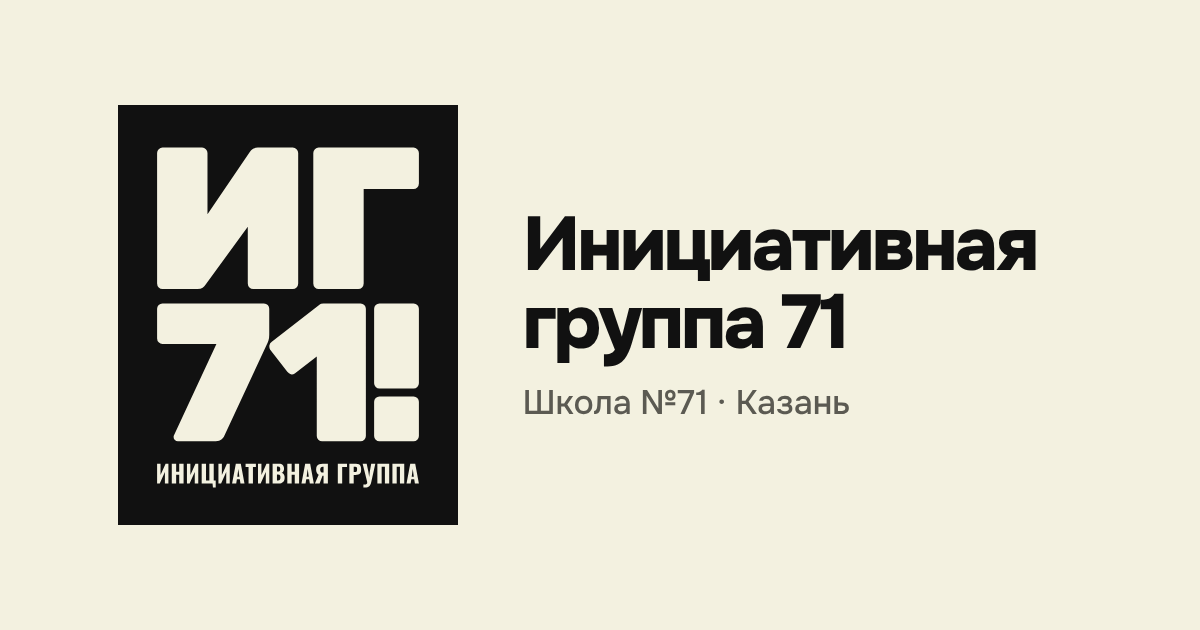
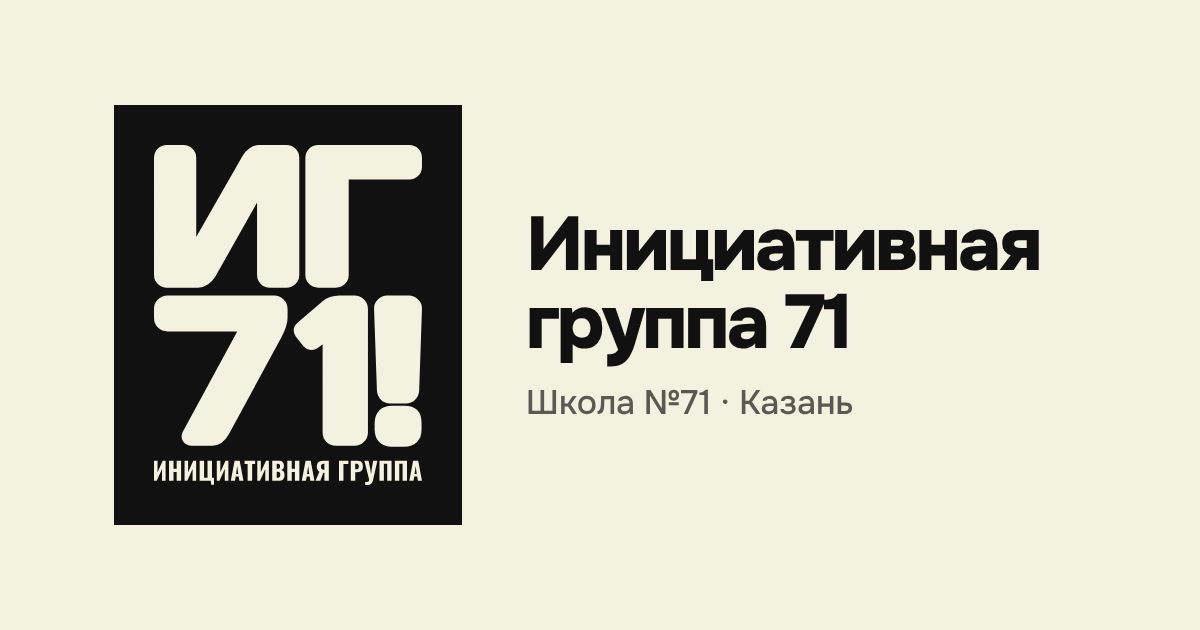
Логотип ИГ 71 ближе к референсу: мягкие «надутые» буквы
Days One с обводкой того же цвета и круглыми стыками: внешние углы
скруглены, буквы плотнее, зазоры между буквами и строками выверены,
чтобы ничего не слипалось. Обновлены значок вкладки, иконка «Домой»
и превью ссылок.

Claude-Session: https://claude.ai/code/session_017Q8Uxc2YzfSRKgFu1SN5za

diff --git a/src/components/Logo.tsx b/src/components/Logo.tsx
@@ -1,31 +1,32 @@
-// Логотип «Инициативная группа 71»: чёрный блок, крупные «ИГ / 71!» (Rubik Black)
-// и подпись «ИНИЦИАТИВНАЯ ГРУППА» (Oswald). Все буквы — векторные контуры,
-// поэтому знак выглядит одинаково на любом устройстве и не зависит от шрифтов.
-const MARK_VB = "0 0 400 457.7";
-const MARK = ['M46.65127020785219 216.4403387220939Q43.941493456505 216.4403387220939 41.9707467282525 214.4695919938414Q40.0 212.4988452655889 40.0 209.7890685142417V50.65127020785218Q40.0 47.941493456504986 41.9707467282525 45.97074672825249Q43.941493456505 44.0 46.65127020785219 44.0H94.9345650500385Q97.64434180138569 44.0 99.6150885296382 45.97074672825249Q101.5858352578907 47.941493456504986 101.5858352578907 50.65127020785218V125.2933025404157L153.0715935334873 49.66589684372593Q154.79599692070823 46.95612009237874 157.25943033102385 45.47806004618937Q159.7228637413395 44.0 163.17167051578136 44.0H205.7890685142417Q208.4988452655889 44.0 210.4695919938414 45.97074672825249Q212.4403387220939 47.941493456504986 212.4403387220939 50.65127020785218V209.7890685142417Q212.4403387220939 212.4988452655889 210.4695919938414 214.4695919938414Q208.4988452655889 216.4403387220939 205.7890685142417 216.4403387220939H157.50577367205543Q154.79599692070823 216.4403387220939 152.8252501924557 214.4695919938414Q150.85450346420322 212.4988452655889 150.85450346420322 209.7890685142417V140.5665896843726L99.36874518860662 210.77444187836798Q97.89068514241725 212.99153194765202 95.67359507313319 214.71593533487297Q93.45650500384912 216.4403387220939 89.26866820631255 216.4403387220939ZM237.5673595073133 216.4403387220939Q234.85758275596612 216.4403387220939 232.88683602771363 214.4695919938414Q230.91608929946113 212.4988452655889 230.91608929946113 209.7890685142417V50.65127020785218Q230.91608929946113 47.941493456504986 232.88683602771363 45.97074672825249Q234.85758275596612 44.0 237.5673595073133 44.0H353.3487297921478Q356.058506543495 44.0 358.0292532717475 45.97074672825249Q360.0 47.941493456504986 360.0 50.65127020785218V87.84911470361817Q360.0 90.55889145496535 358.0292532717475 92.52963818321786Q356.058506543495 94.50038491147035 353.3487297921478 94.50038491147035H292.5019245573518V209.7890685142417Q292.5019245573518 212.4988452655889 290.5311778290993 214.4695919938414Q288.5604311008468 216.4403387220939 285.8506543494996 216.4403387220939Z', 'M65.4463615903976 402.08234922471956Q63.285821455363845 402.08234922471956 61.72543135783946 400.52195912719515Q60.16504126031508 398.9615690296708 60.16504126031508 396.80102889463706Q60.16504126031508 395.60072881961827 60.645161290322584 394.6404887596033L112.49812453113279 283.25264179786285H46.48162040510128Q43.840960240060014 283.25264179786285 41.92048012003001 281.3321616778328Q40.0 279.4116815578028 40.0 276.77102139276155V240.52195912719517Q40.0 237.88129896215392 41.92048012003001 235.9608188421239Q43.840960240060014 234.0403387220939 46.48162040510128 234.0403387220939H170.5926481620405Q173.4733683420855 234.0403387220939 175.27381845461366 235.9608188421239Q177.0742685671418 237.88129896215392 177.0742685671418 240.52195912719517V272.2098811076903Q177.0742685671418 276.2909013627541 176.11402850712676 279.17162154279913Q175.15378844711176 282.0523417228441 173.953488372093 284.45294187288164L121.62040510127531 396.56096887963326Q120.90022505626408 397.76126895465205 118.61965491372844 399.9218090896858Q116.3390847711928 402.08234922471956 111.77794448612153 402.08234922471956ZM241.65041260315078 402.08234922471956Q239.00975243810953 402.08234922471956 237.0892723180795 400.1618691046896Q235.16879219804952 398.2413889846595 235.16879219804952 395.60072881961827V298.6164827581029L208.2820705176294 319.2616440484255Q205.8814703675919 320.9420641534517 203.4808702175544 320.34191411594236Q201.0802700675169 319.741764078433 199.15978994748687 317.3411639283955L178.03450862715678 289.9743222179679Q176.83420855213805 287.57372206793036 177.31432858214555 284.8130318953872Q177.79444861215305 282.0523417228441 180.19504876219054 280.6119816328216L238.04951237809453 235.72075882712016Q239.2498124531133 234.76051876710517 240.45011252813202 234.40042874459954Q241.65041260315078 234.0403387220939 243.33083270817704 234.0403387220939H288.70217554388597Q291.3428357089272 234.0403387220939 293.2633158289573 235.9608188421239Q295.18379594898727 237.88129896215392 295.18379594898727 240.52195912719517V395.60072881961827Q295.18379594898727 398.2413889846595 293.2633158289573 400.1618691046896Q291.3428357089272 402.08234922471956 288.70217554388597 402.08234922471956ZM311.74793698424605 337.7462652037143Q309.1072768192048 337.7462652037143 307.1867966991748 335.8257850836843Q305.26631657914476 333.9053049636543 305.26631657914476 331.26464479861306V240.52195912719517Q305.26631657914476 237.88129896215392 307.1867966991748 235.9608188421239Q309.1072768192048 234.0403387220939 311.74793698424605 234.0403387220939H353.5183795948987Q356.15903975993996 234.0403387220939 358.07951987997 235.9608188421239Q360.0 237.88129896215392 360.0 240.52195912719517V331.26464479861306Q360.0 333.9053049636543 358.07951987997 335.8257850836843Q356.15903975993996 337.7462652037143 353.5183795948987 337.7462652037143ZM311.74793698424605 402.08234922471956Q309.1072768192048 402.08234922471956 307.1867966991748 400.1618691046896Q305.26631657914476 398.2413889846595 305.26631657914476 395.60072881961827V353.8302862089656Q305.26631657914476 351.18962604392436 307.1867966991748 349.26914592389437Q309.1072768192048 347.3486658038644 311.74793698424605 347.3486658038644H353.5183795948987Q356.15903975993996 347.3486658038644 358.07951987997 349.26914592389437Q360.0 351.18962604392436 360.0 353.8302862089656V395.60072881961827Q360.0 398.2413889846595 358.07951987997 400.1618691046896Q356.15903975993996 402.08234922471956 353.5183795948987 402.08234922471956Z'];
-const FULL_VB = "0 0 400 492.8";
-const FULL = ['M52.40184757505774 215.9738260200154Q49.79368745188607 215.9738260200154 47.896843725943036 214.07698229407237Q46.0 212.18013856812934 46.0 209.57197844495767V56.40184757505773Q46.0 53.79368745188606 47.896843725943036 51.89684372594303Q49.79368745188607 50.0 52.40184757505774 50.0H98.87451886066205Q101.48267898383372 50.0 103.37952270977675 51.89684372594303Q105.27636643571978 53.79368745188606 105.27636643571978 56.40184757505773V128.2448036951501L154.83140877598152 55.453425712086215Q156.49114703618167 52.84526558891454 158.86220169361047 51.42263279445727Q161.23325635103924 50.0 164.55273287143956 50.0H205.57197844495767Q208.1801385681293 50.0 210.07698229407237 51.89684372594303Q211.9738260200154 53.79368745188606 211.9738260200154 56.40184757505773V209.57197844495767Q211.9738260200154 212.18013856812934 210.07698229407237 214.07698229407237Q208.1801385681293 215.9738260200154 205.57197844495767 215.9738260200154H159.09930715935334Q156.49114703618167 215.9738260200154 154.59430331023864 214.07698229407237Q152.69745958429561 212.18013856812934 152.69745958429561 209.57197844495767V142.94534257120864L103.14241724403388 210.52040030792918Q101.7197844495766 212.65434949961508 99.58583525789068 214.31408775981524Q97.45188606620476 215.9738260200154 93.42109314857584 215.9738260200154ZM236.15858352578906 215.9738260200154Q233.55042340261738 215.9738260200154 231.65357967667435 214.07698229407237Q229.75673595073133 212.18013856812934 229.75673595073133 209.57197844495767V56.40184757505773Q229.75673595073133 53.79368745188606 231.65357967667435 51.89684372594303Q233.55042340261738 50.0 236.15858352578906 50.0H347.5981524249422Q350.20631254811394 50.0 352.10315627405697 51.89684372594303Q354.0 53.79368745188606 354.0 56.40184757505773V92.20477290223249Q354.0 94.81293302540416 352.10315627405697 96.70977675134719Q350.20631254811394 98.60662047729022 347.5981524249422 98.60662047729022H289.0331023864511V209.57197844495767Q289.0331023864511 212.18013856812934 287.1362586605081 214.07698229407237Q285.23941493456505 215.9738260200154 282.6312548113934 215.9738260200154Z', 'M70.49212303075768 394.6542611287926Q68.4126031507877 394.6542611287926 66.91072768192049 393.15238565992536Q65.40885221305327 391.6505101910582 65.40885221305327 389.57099031108817Q65.40885221305327 388.41570148888263 65.87096774193549 387.49147043111816L115.7794448612153 280.280667730443H52.23855963990997Q49.696924231057764 280.280667730443 47.84846211552888 278.4322056149141Q46.0 276.58374349938526 46.0 274.042108090533V239.1523856599254Q46.0 236.61075025107317 47.84846211552888 234.76228813554428Q49.696924231057764 232.9138260200154 52.23855963990997 232.9138260200154H171.695423855964Q174.46811702925731 232.9138260200154 176.20105026256564 234.76228813554428Q177.93398349587397 236.61075025107317 177.93398349587397 239.1523856599254V269.65201056615194Q177.93398349587397 273.5799925616508 177.00975243810953 276.3526857349441Q176.08552138034509 279.12537890823745 174.93023255813955 281.4359565526486L124.5596399099775 389.33993254664705Q123.86646661665415 390.49522136885264 121.67141785446361 392.57474124882265Q119.47636909227307 394.6542611287926 115.08627156789197 394.6542611287926ZM240.08852213053262 394.6542611287926Q237.5468867216804 394.6542611287926 235.69842460615155 392.8057990132637Q233.84996249062266 390.9573368977348 233.84996249062266 388.41570148888263V295.06836465467404L207.9714928732183 314.93933239660953Q205.6609152288072 316.5567367476973 203.3503375843961 315.97909233659453Q201.039759939985 315.40144792549177 199.19129782445611 313.0908702810807L178.8582145536384 286.7502851347941Q177.70292573143286 284.439707490383 178.1650412603151 281.7825431993102Q178.6271567891973 279.12537890823745 180.9377344336084 277.7390323215908L236.62265566391596 234.53123037110316Q237.77794448612153 233.60699931333872 238.9332333083271 233.26041266667704Q240.08852213053262 232.9138260200154 241.7059264816204 232.9138260200154H285.3758439609902Q287.91747936984245 232.9138260200154 289.76594148537134 234.76228813554428Q291.61440360090023 236.61075025107317 291.61440360090023 239.1523856599254V388.41570148888263Q291.61440360090023 390.9573368977348 289.76594148537134 392.8057990132637Q287.91747936984245 394.6542611287926 285.3758439609902 394.6542611287926ZM307.5573893473368 332.730780258575Q305.01575393848464 332.730780258575 303.16729182295575 330.8823181430462Q301.31882970742686 329.0338560275173 301.31882970742686 326.49222061866504V239.1523856599254Q301.31882970742686 236.61075025107317 303.16729182295575 234.76228813554428Q305.01575393848464 232.9138260200154 307.5573893473368 232.9138260200154H347.76144036009003Q350.3030757689422 232.9138260200154 352.1515378844711 234.76228813554428Q354.0 236.61075025107317 354.0 239.1523856599254V326.49222061866504Q354.0 329.0338560275173 352.1515378844711 330.8823181430462Q350.3030757689422 332.730780258575 347.76144036009003 332.730780258575ZM307.5573893473368 394.6542611287926Q305.01575393848464 394.6542611287926 303.16729182295575 392.8057990132637Q301.31882970742686 390.9573368977348 301.31882970742686 388.41570148888263V348.2116504761294Q301.31882970742686 345.67001506727723 303.16729182295575 343.82155295174834Q305.01575393848464 341.97309083621946 307.5573893473368 341.97309083621946H347.76144036009003Q350.3030757689422 341.97309083621946 352.1515378844711 343.82155295174834Q354.0 345.67001506727723 354.0 348.2116504761294V388.41570148888263Q354.0 390.9573368977348 352.1515378844711 392.8057990132637Q350.3030757689422 394.6542611287926 347.76144036009003 394.6542611287926Z', 'M46.0 444.0741307142607V420.8342611287926H50.045458779692595V434.1469765456534L55.98453656264555 420.8342611287926H59.31271541686073V444.0741307142607H55.181183046110846V430.5318857212472L49.12734047508151 444.0741307142607ZM63.27210060549604 444.0741307142607V420.8342611287926H68.4078248719143V430.24497375105625H72.02291569632044V420.8342611287926H77.1586399627387V444.0741307142607H72.02291569632044V433.9174469695006H68.4078248719143V444.0741307142607ZM81.11802515137401 444.0741307142607V420.8342611287926H85.16348393106661V434.1469765456534L91.10256171401957 420.8342611287926H94.43074056823475V444.0741307142607H90.29920819748487V430.5318857212472L84.24536562645552 444.0741307142607ZM111.70284117373079 448.66472223731614 111.21509082440615 444.0741307142607H98.44750815090825V420.8342611287926H103.55454122030741V440.6024958749501H107.48523521192362V420.8342611287926H112.62095947834187V440.6024958749501H114.94494643688869V448.66472223731614ZM118.15836050302748 444.0741307142607V420.8342611287926H122.20381928272008V434.1469765456534L128.14289706567303 420.8342611287926H131.47107591988822V444.0741307142607H127.33954354913834V430.5318857212472L121.28570097810899 444.0741307142607ZM134.22543083372145 444.0741307142607 138.6151839776432 420.8342611287926H144.46818816953888L148.80055891942243 444.0741307142607H144.06651141127153L143.29184909175592 439.16793602399525H139.87759664648345L139.07424312994874 444.0741307142607ZM140.336655798789 436.0979779429519H142.80409874243128L141.57037727061015 427.03155968491745ZM153.59198882161152 444.0741307142607V424.65019033233244H150.09166278528178V420.8342611287926H162.22803912435955V424.65019033233244H158.7564042850489V444.0741307142607ZM164.69548206800187 444.0741307142607V420.8342611287926H168.74094084769447V434.1469765456534L174.68001863064742 420.8342611287926H178.0081974848626V444.0741307142607H173.8766651141127V430.5318857212472L167.8228225430834 444.0741307142607ZM181.88150908244063 444.0741307142607V420.8342611287926H187.93535165346995Q189.42729389846298 420.8342611287926 190.76143455985095 421.0637907049454Q192.09557522123893 421.29332028109815 193.1284583139264 421.9388722140278Q194.16134140661387 422.58442414695753 194.74951094550534 423.77510882325Q195.33768048439683 424.9657934995425 195.33768048439683 426.91679489684105Q195.33768048439683 428.3226635507768 194.92165812761993 429.2838186509165Q194.50563577084304 430.24497375105625 193.74531904983698 430.81879769143814Q192.98500232883092 431.3926216318201 191.92342803912436 431.5934600109538Q193.2719142990219 431.7656071930684 194.19003260363297 432.46854152003624Q195.10815090824406 433.1714758470041 195.58155565905915 434.34781492478703Q196.05496040987424 435.52415400257 196.05496040987424 437.1882434296776Q196.05496040987424 438.99578884188065 195.58155565905915 440.3012383062495Q195.10815090824406 441.6066877706184 194.21872380065207 442.4387324841722Q193.3292966930601 443.27077719772603 192.02384722869118 443.6724539559934Q190.7183977643223 444.0741307142607 189.02561714019564 444.0741307142607ZM187.01723334885887 440.4877310868737H188.10749883558455Q189.80027945971122 440.4877310868737 190.4458313926409 439.62699517630074Q191.09138332557058 438.76625926572785 191.09138332557058 437.1021698386203Q191.09138332557058 435.78237477574186 190.8044713553796 435.0077124562263Q190.51755938518863 434.23305013671063 189.85766185374942 433.8744101739719Q189.1977643223102 433.51577021123325 188.07880763856545 433.51577021123325H187.01723334885887ZM187.01723334885887 430.13020896297985H188.02142524452725Q189.1977643223102 430.13020896297985 189.80027945971125 429.77156900024113Q190.40279459711226 429.41292903750247 190.61797857475548 428.7243403090441Q190.8331625523987 428.03575158058584 190.8331625523987 427.06025088193655Q190.8331625523987 426.14213257732547 190.5032137866791 425.5252718414149Q190.1732650209595 424.90841110550434 189.52771308802983 424.5928079382943Q188.88216115510014 424.2772047710842 187.90666045645085 424.2772047710842H187.01723334885887ZM199.18230088495574 444.0741307142607V420.8342611287926H204.318025151374V430.24497375105625H207.93311597578014V420.8342611287926H213.0688402421984V444.0741307142607H207.93311597578014V433.9174469695006H204.318025151374V444.0741307142607ZM215.82319515603166 444.0741307142607 220.2129482999534 420.8342611287926H226.0659524918491L230.39832324173264 444.0741307142607H225.66427573358175L224.88961341406613 439.16793602399525H221.47536096879367L220.67200745225895 444.0741307142607ZM221.9344201210992 436.0979779429519H224.4018630647415L223.16814159292036 427.03155968491745ZM231.6607359105729 444.0741307142607 236.07918025151375 433.745299787386Q234.7593851886353 432.9419462708513 233.91299487657196 431.39262163182013Q233.06660456450862 429.8432969927889 233.06660456450862 427.77753080741394Q233.06660456450862 425.0805582876189 234.0134140661388 423.57427044411634Q234.96022356776896 422.0679826006138 236.72473218444338 421.45112186470317Q238.48924080111783 420.8342611287926 240.95668374476014 420.8342611287926H246.9244527247322V444.0741307142607H241.81741965533303V434.8929476681499H240.89930135072194Q240.87061015370284 434.8929476681499 240.75584536562644 434.8929476681499Q240.64108057755007 434.8929476681499 240.58369818351187 434.8929476681499L237.1981369352585 444.0741307142607ZM241.0714485328365 431.27785684374373H241.81741965533303V424.3632783621415H241.0140661387983Q239.43605030274801 424.3632783621415 238.64704238472285 425.2383598712239Q237.85803446669772 426.11344138030637 237.85803446669772 427.80622200443304Q237.85803446669772 429.29816424942607 238.54662319515603 430.2880105465849Q239.23521192361434 431.27785684374373 241.0714485328365 431.27785684374373ZM258.6017699115044 444.0741307142607V420.8342611287926H269.38965999068466V424.65019033233244H263.73749417792266V444.0741307142607ZM272.172706101537 444.0741307142607V420.8342611287926H279.97671169073124Q282.0711690731253 420.8342611287926 283.41965533302283 421.62326904681777Q284.76814159292036 422.41227696484293 285.42803912435954 423.9185648083455Q286.0879366557988 425.424852651848 286.0879366557988 427.5766924282803Q286.0879366557988 430.27366494807535 285.1985095482068 431.69387920052066Q284.3090824406148 433.1140934529659 282.7884489986027 433.65922619632875Q281.2678155565906 434.20435893969153 279.37419655333025 434.20435893969153H277.3084303679553V444.0741307142607ZM277.3084303679553 430.6179593123045H279.02990218910105Q279.97671169073124 430.6179593123045 280.4644620400559 430.27366494807535Q280.9522123893805 429.9293705838462 281.1100139729856 429.2407818553879Q281.2678155565906 428.5521931269296 281.2678155565906 427.490618837223Q281.2678155565906 426.601191729631 281.13870517000464 425.92694859968225Q281.0095947834187 425.2527054697335 280.5218444340941 424.85102871146614Q280.03409408476944 424.44935195319874 279.00121099208195 424.44935195319874H277.3084303679553ZM288.6988355845366 448.75079582837344V445.2217785950246Q289.10051234280394 445.25046979204365 289.4591523055426 445.26481539055317Q289.8177922682813 445.27916098906275 290.1333954354914 445.27916098906275Q290.8219841639497 445.27916098906275 291.3814625058221 445.1643962009864Q291.9409408476945 445.04963141291 292.34261760596183 444.8057562382477Q292.7442943642292 444.56188106358536 292.9594783418724 444.14585870680844Q293.1746623195156 443.7298363500316 293.1746623195156 443.12732121263053Q293.1746623195156 442.6969532573441 293.13162552398694 442.36700449162447Q293.0885887284583 442.03705572590485 293.0312063344201 441.7214525586948L287.8094084769446 420.8342611287926H292.5721471821146L294.58053097345135 430.38842973615175L295.52734047508153 436.61441948929564L296.2159292035398 430.35973853913265L297.90870982766654 420.8342611287926H302.7288309268747L297.96609222170474 442.20920290801945Q297.5644154634374 444.0454395172416 296.99059152305546 445.3221977845914Q296.4167675826735 446.59895605194123 295.58472286911973 447.3736183714568Q294.75267815556595 448.1482806909724 293.56199347927344 448.49257505520154Q292.37130880298093 448.83686941943074 290.6785281788542 448.83686941943074Q290.24816022356777 448.83686941943074 289.7604098742431 448.80817822241164Q289.2726595249185 448.77948702539254 288.6988355845366 448.75079582837344ZM305.1388914764788 444.0741307142607V420.8342611287926H319.0541220307406V444.0741307142607H314.0044713553796V424.50673434723694H310.1885421518398V444.0741307142607ZM322.84136003726127 444.0741307142607V420.8342611287926H336.75659059152304V444.0741307142607H331.70693991616207V424.50673434723694H327.89101071262223V444.0741307142607ZM339.42487191429905 444.0741307142607 343.81462505822077 420.8342611287926H349.6676292501164L354.0 444.0741307142607H349.2659524918491L348.4912901723335 439.16793602399525H345.077037727061L344.2736842105263 444.0741307142607ZM345.53609687936654 436.0979779429519H348.00353982300885L346.7698183511877 427.03155968491745Z'];
+// Логотип «Инициативная группа 71»: чёрный блок, крупные «ИГ / 71!» и подпись
+// «ИНИЦИАТИВНАЯ ГРУППА». Буквы — векторные контуры (Days One, «надуты» обводкой
+// с круглыми стыками) и Oswald для подписи. Не зависит от шрифтов на устройстве.
+const INF = 9;
+const MARK_H = 441.4;
+const MARK = ['M44.5 195.72417750573834V55.221117061973985Q44.5 50.594108645753636 47.54705432287682 47.54705432287682Q50.594108645753636 44.5 55.221117061973985 44.5H75.08339709257842Q79.48469778117827 44.5 82.58817903596022 47.54705432287682Q85.69166029074216 50.594108645753636 85.69166029074216 54.995409334353496V167.96212700841625L149.90550879877583 55.221117061973985Q152.50114766641164 50.81981637337415 157.01530221882174 47.659908186687076Q161.52945677123185 44.5 165.36648814078043 44.5H198.6583779648049Q203.05967865340475 44.5 206.10673297628156 47.659908186687076Q209.15378729915838 50.81981637337415 209.15378729915838 55.221117061973985V195.72417750573834Q209.15378729915838 200.1254781943382 205.99387911247132 203.22895944912014Q202.83397092578426 206.33244070390208 198.4326702371844 206.33244070390208H178.57039020657996Q174.16908951798013 206.33244070390208 171.06560826319816 203.22895944912014Q167.96212700841622 200.1254781943382 167.96212700841622 195.72417750573834V90.99579188982403L109.05241009946442 195.72417750573834Q106.45677123182861 200.1254781943382 101.716908951798 203.22895944912014Q96.9770466717674 206.33244070390208 92.57574598316756 206.33244070390208H55.221117061973985Q50.81981637337414 206.33244070390208 47.65990818668707 203.22895944912014Q44.5 200.1254781943382 44.5 195.72417750573834ZM225.15378729915838 195.94988523335886V55.221117061973985Q225.15378729915838 50.594108645753636 228.2008416220352 47.54705432287682Q231.24789594491202 44.5 235.87490436113237 44.5H344.89173680183626Q349.51874521805667 44.5 352.50937260902833 47.54705432287682Q355.5 50.594108645753636 355.5 55.221117061973985V65.82938026013773Q355.5 70.45638867635807 352.50937260902833 73.44701606732977Q349.51874521805667 76.43764345830147 344.89173680183626 76.43764345830147H267.69969395562356V195.94988523335886Q267.69969395562356 200.3511859219587 264.59621270084165 203.34181331293038Q261.4927314460597 206.33244070390208 257.0914307574598 206.33244070390208H235.87490436113237Q231.47360367253253 206.33244070390208 228.31369548584547 203.34181331293038Q225.15378729915838 200.3511859219587 225.15378729915838 195.94988523335886Z', 'M44.5 246.91277359029812V235.6823434774874Q44.5 231.0229097072787 47.96470716246289 227.6776752055904Q51.429414324925766 224.3324407039021 56.088848095134466 224.3324407039021H184.04406778471193Q188.70350155492062 224.3324407039021 192.1084723869962 227.6776752055904Q195.5134432190718 231.0229097072787 195.5134432190718 235.6823434774874V246.67382826874896Q195.5134432190718 254.91744186219512 188.22561091182232 268.4178525297229L125.50246400516669 384.42580614184214Q119.40935830566299 395.65623625465287 109.85154544369642 395.65623625465287H85.3596499849071Q80.58074355392381 395.65623625465287 78.6094446511432 392.49021074412644Q76.6381457483626 389.3241852336 78.54970832075591 385.620532749588L147.60490624846437 258.14320370310884H56.088848095134466Q51.1904690033766 258.14320370310884 47.845234501688296 254.85770553180782Q44.5 251.5722073605068 44.5 246.91277359029812ZM212.9471151483668 266.02839931423125Q211.5134432190718 263.9973640810633 211.5134432190718 261.24949288324797Q211.5134432190718 258.5016216854326 215.45604102463304 255.15638718374427L244.60737025363107 230.06712842108203Q250.93942127468392 224.45191336467667 262.16985138749465 224.3324407039021H279.7323325213582Q284.6307116131161 224.3324407039021 287.9759461148044 227.6776752055904Q291.3211806164927 231.0229097072787 291.3211806164927 235.6823434774874V384.42580614184214Q291.3211806164927 389.08523991205084 287.8564734540298 392.37073808335185Q284.3917662915669 395.65623625465287 279.7323325213582 395.65623625465287H257.51041761728595Q252.85098384707723 395.65623625465287 249.56548567577624 392.49021074412644Q246.27998750447523 389.3241852336 246.27998750447523 384.6647514633913V269.1346884943704L232.54063151539827 279.1703919994353Q230.15117829990663 280.84300925027947 227.0448891197675 280.2456459464065Q223.93859993962835 279.6482826425336 222.02703736723504 277.49777474859116ZM307.336849162168 235.6823434774874Q307.09790384061887 231.0229097072787 310.5028746726945 227.6776752055904Q313.90784550477 224.3324407039021 318.5672792749787 224.3324407039021H344.2539013415139Q348.9133351117226 224.3324407039021 352.3183059437982 227.6776752055904Q355.7232767758738 231.0229097072787 355.4843314543246 235.6823434774874L352.1390969526363 333.7693979734193Q351.90015163108717 338.42883174362805 348.67438979017345 341.5948572541545Q345.44862794925973 344.7608827646809 340.90866683982557 344.7608827646809H322.0319864374416Q317.3725526672329 344.7608827646809 314.2065271567065 341.5948572541545Q311.0405016461801 338.42883174362805 310.8015563246309 333.7693979734193ZM338.8776316066577 356.94709416368823Q355.0064408112263 356.94709416368823 355.0064408112263 373.1953760290314V380.7221536578301Q355.0064408112263 388.24893128662876 350.8846340145032 392.54994707451374Q346.7628272177801 396.8509628623987 338.8776316066577 396.8509628623987H324.1824943313841Q316.29729872026167 396.8509628623987 312.1754919235386 392.54994707451374Q308.0536851268155 388.24893128662876 308.0536851268155 380.7221536578301V373.1953760290314Q308.0536851268155 365.310180417909 312.23522825392587 361.1286372907986Q316.41677138103626 356.94709416368823 324.1824943313841 356.94709416368823Z'];
+const FULL_H = 483.4;
+const FULL_BIG = ['M50.5 195.5726855394032V60.785003825554725Q50.5 56.34621270084165 53.42310635042081 53.423106350420824Q56.34621270084162 50.5 60.785003825554696 50.5H79.83932670237184Q84.06159143075746 50.5 87.03882938026014 53.423106350420824Q90.01606732976282 56.34621270084165 90.01606732976282 60.568477429227244V168.93993879112472L151.6178270849273 60.785003825554725Q154.1078806426932 56.5627390971691 158.43840856924254 53.53136954858455Q162.76893649579188 50.5 166.44988523335883 50.5H198.3875286916603Q202.6097934200459 50.5 205.5328997704667 53.53136954858455Q208.4560061208875 56.5627390971691 208.4560061208875 60.785003825554725V195.5726855394032Q208.4560061208875 199.79495026778883 205.42463657230297 202.7721882172915Q202.39326702371844 205.7494261667942 198.1710022953328 205.7494261667942H179.11667941851567Q174.89441469013008 205.7494261667942 171.91717674062738 202.7721882172915Q168.93993879112472 199.79495026778883 168.93993879112472 195.5726855394032V95.10443764345831L112.4265493496557 195.5726855394032Q109.93649579188983 199.79495026778883 105.38944146901301 202.7721882172915Q100.84238714613619 205.7494261667942 96.62012241775057 205.7494261667942H60.785003825554696Q56.562739097169086 205.7494261667942 53.53136954858454 202.7721882172915Q50.5 199.79495026778883 50.5 195.5726855394032ZM224.45600612088754 195.7892119357307V60.785003825554725Q224.45600612088754 56.34621270084165 227.37911247130836 53.423106350420824Q230.30221882172916 50.5 234.74100994644223 50.5H339.3232593726091Q343.7620504973221 50.5 346.63102524866105 53.423106350420824Q349.5 56.34621270084165 349.5 60.785003825554725V70.96174445294568Q349.5 75.40053557765876 346.63102524866105 78.26951032899771Q343.7620504973221 81.13848508033666 339.3232593726091 81.13848508033666H265.27123182861516V195.7892119357307Q265.27123182861516 200.01147666411632 262.29399387911246 202.88045141545524Q259.3167559296098 205.7494261667942 255.09449120122417 205.7494261667942H234.74100994644223Q230.5187452180566 205.7494261667942 227.48737566947207 202.88045141545524Q224.45600612088754 200.01147666411632 224.45600612088754 195.7892119357307Z', 'M50.5 245.35856193979683V234.61116107915Q50.5 230.15213306249868 53.81568749956125 226.95077961464642Q57.1313749991225 223.7494261667942 61.590403015773845 223.7494261667942H184.04217239612217Q188.50120041277353 223.7494261667942 191.75972088648027 226.95077961464642Q195.018241360187 230.15213306249868 195.018241360187 234.61116107915V245.1298938363788Q195.018241360187 253.01894340430042 188.0438642059375 265.9386912474184L128.0184870587079 376.9570554568659Q122.18745042154846 387.70445631751267 113.04072628482776 387.70445631751267H89.60224568448098Q85.02888361612062 387.70445631751267 83.14237176292198 384.67460394722394Q81.25585990972334 381.6447515769352 83.08520473706747 378.1003959739559L149.1702866248745 256.10596280044365H61.590403015773845Q56.90270689570448 256.10596280044365 53.70135344785224 252.9617763784459Q50.5 249.81758995644816 50.5 245.35856193979683ZM212.3902499806951 263.6520102132382Q211.018241360187 261.70833133418506 211.018241360187 259.0786481448779Q211.018241360187 256.44896495557066 214.7912650665843 253.24761150771843L242.6887736835824 229.2374606488266Q248.74847842415988 223.8637602185032 259.4958792848067 223.7494261667942H276.30298488603097Q280.9906810061003 223.7494261667942 284.1920344539526 226.95077961464642Q287.39338790180483 230.15213306249868 287.39338790180483 234.61116107915V376.9570554568659Q287.39338790180483 381.4160834735172 284.0777004022436 384.5602698955149Q280.76201290268233 387.70445631751267 276.30298488603097 387.70445631751267H255.03685126815537Q250.57782325150401 387.70445631751267 247.43363682950627 384.67460394722394Q244.28945040750853 381.6447515769352 244.28945040750853 377.18572356028386V266.62469555767245L231.14103446097255 276.2287559012292Q228.85435342679236 277.8294326251553 225.88166808235815 277.2577623666102Q222.9089827379239 276.6860921080652 221.07963791057978 274.62807917730305ZM303.40838253153714 234.61116107915Q303.17971442811915 230.15213306249868 306.4382349018259 226.95077961464642Q309.69675537553263 223.7494261667942 314.15578339218393 223.7494261667942H338.73760450962084Q343.1966325262722 223.7494261667942 346.45515299997896 226.95077961464642Q349.7136734736857 230.15213306249868 349.48500537026763 234.61116107915L346.2836519224154 328.47941753224615Q346.0549838189974 332.9384455488975 342.96796442285415 335.9682979191862Q339.88094502671095 338.99815028947495 335.5362510617686 338.99815028947495H317.47147089174524Q313.0124428750939 338.99815028947495 309.98259050480516 335.9682979191862Q306.95273813451644 332.9384455488975 306.7240700310984 328.47941753224615ZM333.59257218271546 350.66022356379386Q349.0276691634316 350.66022356379386 349.0276691634316 366.209654596219V373.4126998538866Q349.0276691634316 380.61574511155413 345.0831443794708 384.7317709730785Q341.13861959551 388.8477968346028 333.59257218271546 388.8477968346028H319.52948382250736Q311.9834364097128 388.8477968346028 308.038911625752 384.7317709730785Q304.0943868417912 380.61574511155413 304.0943868417912 373.4126998538866V366.209654596219Q304.0943868417912 358.66360718342446 308.0960786516065 354.6619153736092Q312.0977704614218 350.66022356379386 319.52948382250736 350.66022356379386Z'];
+const FULL_SMALL = ['M46.0 432.5876664200709V409.3477968346028H50.045458779692595V422.6605122514635L55.98453656264555 409.3477968346028H59.31271541686073V432.5876664200709H55.181183046110846V419.04542142705736L49.12734047508151 432.5876664200709ZM63.27210060549604 432.5876664200709V409.3477968346028H68.4078248719143V418.7585094568664H72.02291569632044V409.3477968346028H77.1586399627387V432.5876664200709H72.02291569632044V422.43098267531076H68.4078248719143V432.5876664200709ZM81.11802515137401 432.5876664200709V409.3477968346028H85.16348393106661V422.6605122514635L91.10256171401957 409.3477968346028H94.43074056823475V432.5876664200709H90.29920819748487V419.04542142705736L84.24536562645552 432.5876664200709ZM111.70284117373079 437.1782579431263 111.21509082440615 432.5876664200709H98.44750815090825V409.3477968346028H103.55454122030741V429.11603158076025H107.48523521192362V409.3477968346028H112.62095947834187V429.11603158076025H114.94494643688869V437.1782579431263ZM118.15836050302748 432.5876664200709V409.3477968346028H122.20381928272008V422.6605122514635L128.14289706567303 409.3477968346028H131.47107591988822V432.5876664200709H127.33954354913834V419.04542142705736L121.28570097810899 432.5876664200709ZM134.22543083372145 432.5876664200709 138.6151839776432 409.3477968346028H144.46818816953888L148.80055891942243 432.5876664200709H144.06651141127153L143.29184909175592 427.6814717298054H139.87759664648345L139.07424312994874 432.5876664200709ZM140.336655798789 424.61151364876207H142.80409874243128L141.57037727061015 415.5450953907276ZM153.59198882161152 432.5876664200709V413.1637260381426H150.09166278528178V409.3477968346028H162.22803912435955V413.1637260381426H158.7564042850489V432.5876664200709ZM164.69548206800187 432.5876664200709V409.3477968346028H168.74094084769447V422.6605122514635L174.68001863064742 409.3477968346028H178.0081974848626V432.5876664200709H173.8766651141127V419.04542142705736L167.8228225430834 432.5876664200709ZM181.88150908244063 432.5876664200709V409.3477968346028H187.93535165346995Q189.42729389846298 409.3477968346028 190.76143455985095 409.5773264107555Q192.09557522123893 409.8068559869083 193.1284583139264 410.45240791983804Q194.16134140661387 411.0979598527677 194.74951094550534 412.2886445290602Q195.33768048439683 413.47932920535266 195.33768048439683 415.4303306026512Q195.33768048439683 416.83619925658695 194.92165812761993 417.7973543567267Q194.50563577084304 418.7585094568664 193.74531904983698 419.33233339724836Q192.98500232883092 419.90615733763025 191.92342803912436 420.10699571676395Q193.2719142990219 420.27914289887855 194.19003260363297 420.9820772258464Q195.10815090824406 421.6850115528143 195.58155565905915 422.86135063059726Q196.05496040987424 424.0376897083802 196.05496040987424 425.70177913548775Q196.05496040987424 427.5093245476908 195.58155565905915 428.81477401205973Q195.10815090824406 430.1202234764286 194.21872380065207 430.9522681899824Q193.3292966930601 431.7843129035362 192.02384722869118 432.18598966180355Q190.7183977643223 432.5876664200709 189.02561714019564 432.5876664200709ZM187.01723334885887 429.00126679268385H188.10749883558455Q189.80027945971122 429.00126679268385 190.4458313926409 428.14053088211097Q191.09138332557058 427.2797949715381 191.09138332557058 425.61570554443045Q191.09138332557058 424.295910481552 190.8044713553796 423.5212481620364Q190.51755938518863 422.7465858425208 189.85766185374942 422.38794587978214Q189.1977643223102 422.0293059170434 188.07880763856545 422.0293059170434H187.01723334885887ZM187.01723334885887 418.64374466879H188.02142524452725Q189.1977643223102 418.64374466879 189.80027945971125 418.28510470605136Q190.40279459711226 417.92646474331264 190.61797857475548 417.23787601485435Q190.8331625523987 416.549287286396 190.8331625523987 415.5737865877467Q190.8331625523987 414.65566828313564 190.5032137866791 414.038807547225Q190.1732650209595 413.42194681131446 189.52771308802983 413.1063436441044Q188.88216115510014 412.79074047689437 187.90666045645085 412.79074047689437H187.01723334885887ZM199.18230088495574 432.5876664200709V409.3477968346028H204.318025151374V418.7585094568664H207.93311597578014V409.3477968346028H213.0688402421984V432.5876664200709H207.93311597578014V422.43098267531076H204.318025151374V432.5876664200709ZM215.82319515603166 432.5876664200709 220.2129482999534 409.3477968346028H226.0659524918491L230.39832324173264 432.5876664200709H225.66427573358175L224.88961341406613 427.6814717298054H221.47536096879367L220.67200745225895 432.5876664200709ZM221.9344201210992 424.61151364876207H224.4018630647415L223.16814159292036 415.5450953907276ZM231.6607359105729 432.5876664200709 236.07918025151375 422.25883549319616Q234.7593851886353 421.4554819766615 233.91299487657196 419.90615733763025Q233.06660456450862 418.3568326985991 233.06660456450862 416.2910665132241Q233.06660456450862 413.59409399342906 234.0134140661388 412.0878061499265Q234.96022356776896 410.58151830642396 236.72473218444338 409.9646575705134Q238.48924080111783 409.3477968346028 240.95668374476014 409.3477968346028H246.9244527247322V432.5876664200709H241.81741965533303V423.40648337396004H240.89930135072194Q240.87061015370284 423.40648337396004 240.75584536562644 423.40648337396004Q240.64108057755007 423.40648337396004 240.58369818351187 423.40648337396004L237.1981369352585 432.5876664200709ZM241.0714485328365 419.7913925495539H241.81741965533303V412.87681406795167H241.0140661387983Q239.43605030274801 412.87681406795167 238.64704238472285 413.75189557703413Q237.85803446669772 414.62697708611654 237.85803446669772 416.3197577102432Q237.85803446669772 417.81169995523624 238.54662319515603 418.80154625239504Q239.23521192361434 419.7913925495539 241.0714485328365 419.7913925495539ZM258.6017699115044 432.5876664200709V409.3477968346028H269.38965999068466V413.1637260381426H263.73749417792266V432.5876664200709ZM272.172706101537 432.5876664200709V409.3477968346028H279.97671169073124Q282.0711690731253 409.3477968346028 283.41965533302283 410.13680475262794Q284.76814159292036 410.9258126706531 285.42803912435954 412.43210051415565Q286.0879366557988 413.9383883576582 286.0879366557988 416.09022813409047Q286.0879366557988 418.7872006538855 285.1985095482068 420.20741490633077Q284.3090824406148 421.6276291587761 282.7884489986027 422.17276190213886Q281.2678155565906 422.7178946455017 279.37419655333025 422.7178946455017H277.3084303679553V432.5876664200709ZM277.3084303679553 419.13149501811466H279.02990218910105Q279.97671169073124 419.13149501811466 280.4644620400559 418.7872006538855Q280.9522123893805 418.4429062896564 281.1100139729856 417.75431756119804Q281.2678155565906 417.06572883273975 281.2678155565906 416.00415454303317Q281.2678155565906 415.1147274354412 281.13870517000464 414.4404843054924Q281.0095947834187 413.76624117554366 280.5218444340941 413.3645644172763Q280.03409408476944 412.96288765900897 279.00121099208195 412.96288765900897H277.3084303679553ZM288.6988355845366 437.2643315341836V433.7353143008348Q289.10051234280394 433.7640054978538 289.4591523055426 433.7783510963634Q289.8177922682813 433.7926966948729 290.1333954354914 433.7926966948729Q290.8219841639497 433.7926966948729 291.3814625058221 433.6779319067965Q291.9409408476945 433.5631671187202 292.34261760596183 433.31929194405785Q292.7442943642292 433.07541676939553 292.9594783418724 432.65939441261867Q293.1746623195156 432.24337205584175 293.1746623195156 431.6408569184407Q293.1746623195156 431.21048896315426 293.13162552398694 430.88054019743464Q293.0885887284583 430.550591431715 293.0312063344201 430.234988264505L287.8094084769446 409.3477968346028H292.5721471821146L294.58053097345135 418.9019654419619L295.52734047508153 425.1279551951058L296.2159292035398 418.8732742449428L297.90870982766654 409.3477968346028H302.7288309268747L297.96609222170474 430.7227386138296Q297.5644154634374 432.5589752230518 296.99059152305546 433.8357334904016Q296.4167675826735 435.1124917577514 295.58472286911973 435.887154077267Q294.75267815556595 436.66181639678257 293.56199347927344 437.00611076101177Q292.37130880298093 437.3504051252409 290.6785281788542 437.3504051252409Q290.24816022356777 437.3504051252409 289.7604098742431 437.3217139282218Q289.2726595249185 437.2930227312027 288.6988355845366 437.2643315341836ZM305.1388914764788 432.5876664200709V409.3477968346028H319.0541220307406V432.5876664200709H314.0044713553796V413.0202700530471H310.1885421518398V432.5876664200709ZM322.84136003726127 432.5876664200709V409.3477968346028H336.75659059152304V432.5876664200709H331.70693991616207V413.0202700530471H327.89101071262223V432.5876664200709ZM339.42487191429905 432.5876664200709 343.81462505822077 409.3477968346028H349.6676292501164L354.0 432.5876664200709H349.2659524918491L348.4912901723335 427.6814717298054H345.077037727061L344.2736842105263 432.5876664200709ZM345.53609687936654 424.61151364876207H348.00353982300885L346.7698183511877 415.5450953907276Z'];
 const INK = "#111111";
 const PAPER = "#F3F1E0";
 
 /** Знак без подписи: блок «ИГ / 71!» */
 export function LogoMark({ height = 40, bg = INK, fg = PAPER, className }: { height?: number; bg?: string; fg?: string; className?: string }) {
-  const [, , w, h] = MARK_VB.split(" ").map(Number);
   return (
-    <svg height={height} width={(height * w) / h} viewBox={MARK_VB} className={className} aria-hidden>
-      <rect width={w} height={h} fill={bg} />
-      {MARK.map((d, i) => <path key={i} d={d} fill={fg} />)}
+    <svg height={height} width={(height * 400) / MARK_H} viewBox={`0 0 400 ${MARK_H}`} className={className} aria-hidden>
+      <rect width={400} height={MARK_H} fill={bg} />
+      {MARK.map((d, i) => <path key={i} d={d} fill={fg} stroke={fg} strokeWidth={INF} strokeLinejoin="round" />)}
     </svg>
   );
 }
 
 /** Полный логотип с подписью */
 export function LogoFull({ height = 160, bg = INK, fg = PAPER }: { height?: number; bg?: string; fg?: string }) {
-  const [, , w, h] = FULL_VB.split(" ").map(Number);
   return (
-    <svg height={height} width={(height * w) / h} viewBox={FULL_VB} role="img" aria-label="Инициативная группа 71">
-      <rect width={w} height={h} fill={bg} />
-      {FULL.map((d, i) => <path key={i} d={d} fill={fg} />)}
+    <svg height={height} width={(height * 400) / FULL_H} viewBox={`0 0 400 ${FULL_H}`} role="img" aria-label="Инициативная группа 71">
+      <rect width={400} height={FULL_H} fill={bg} />
+      {FULL_BIG.map((d, i) => <path key={i} d={d} fill={fg} stroke={fg} strokeWidth={INF} strokeLinejoin="round" />)}
+      {FULL_SMALL.map((d, i) => <path key={"s" + i} d={d} fill={fg} />)}
     </svg>
   );
 }
